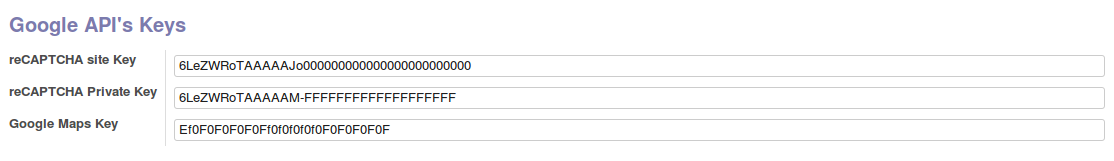
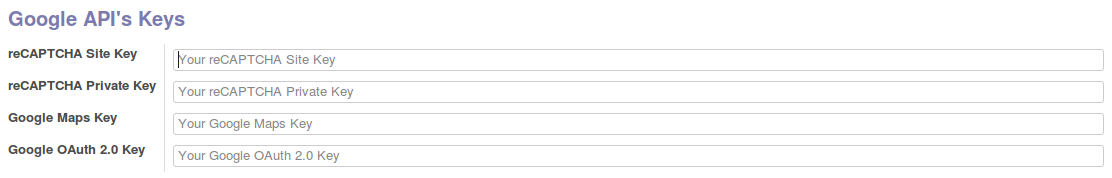
[8.0][IMP][website_google_apis] All updated to 8.0 Odoo API, added OAuth 2.0 Key

diff --git a/website_google_apis/static/description/index.html b/website_google_apis/static/description/index.html
@@ -1,6 +1,6 @@
 <section class="oe_container">
     <div class="oe_row">
-        <h2 class="oe_slogan">Odoo Website Google API's Keys</h2>
+        <h2 class="oe_slogan">Odoo Website Google API's</h2>
         <h4 class="oe_slogan"><a href="https://www.eiqui.com">By Soluci&oacute;ns Aloxa S.L.</a></h4>
             <p>
             	Module based in 'website_recaptcha_reloaded' by <a href='https://www.techreceptives.com'>Tech Receptives</a><br/><br/>
@@ -13,6 +13,7 @@
                 <li><i>website.recaptcha_private_key</i> (Recaptcha Private Key)</li>
                 <li><i>website.recaptcha_public_key</i> (Recaptcha Public Key)</li>
             	<li><i>website.google_maps_key</i> (Google Maps App Key)</li>
+            	<li><i>website.google_oauth2</i> (Google OAuth 2.0 Key)</li>
            	</ul>
 
             <div class="oe_row_img oe_centered oe_mt32">

diff --git a/website_google_apis/models/res_config.py b/website_google_apis/models/res_config.py
@@ -1,39 +1,39 @@
 # -*- coding: utf-8 -*-
 ##############################################################################
 #
-#    Tech-Receptives Solutions Pvt. Ltd.
-#    Copyright (C)2004-TODAY Tech Receptives(<https://www.techreceptives.com>)
+#    OpenERP, Open Source Management Solution
+#    Copyright (C) 2016 Solucións Aloxa S.L. <info@aloxa.eu>
 #
 #    This program is free software: you can redistribute it and/or modify
-#    it under the terms of the GNU Affero General Public License as
-#    published by the Free Software Foundation, either version 3 of the
-#    License, or (at your option) any later version.
+#    it under the terms of the GNU General Public License as published by
+#    the Free Software Foundation, either version 3 of the License, or
+#    (at your option) any later version.
 #
 #    This program is distributed in the hope that it will be useful,
 #    but WITHOUT ANY WARRANTY; without even the implied warranty of
 #    MERCHANTABILITY or FITNESS FOR A PARTICULAR PURPOSE.  See the
-#    GNU Affero General Public License for more details.
+#    GNU General Public License for more details.
 #
-#    You should have received a copy of the GNU Affero General Public License
+#    You should have received a copy of the GNU General Public License
 #    along with this program.  If not, see <http://www.gnu.org/licenses/>.
 #
 ##############################################################################
 
-from openerp.osv import fields, osv
+from openerp import models, fields
 
 
-class website_config_settings(osv.osv_memory):
+class website_config_settings(models.Model):
     _inherit = 'website.config.settings'
-
-    _columns = {
-        'recaptcha_site_key': fields.related(
-            'website_id', 'recaptcha_site_key', type="char",
-            string='reCAPTCHA site Key'),
-        'recaptcha_private_key': fields.related(
-            'website_id', 'recaptcha_private_key', type="char",
-            string='reCAPTCHA Private Key'),
-        'google_maps_key': fields.related(
-            'website_id', 'google_maps_key', type="char",
-            string='Google Maps Key')
-    }
-
+    
+    recaptcha_site_key = fields.Char(
+        related='website_id.recaptcha_site_key',
+        string='reCAPTCHA Site Key')
+    recaptcha_private_key = fields.Char(
+        related='website_id.recaptcha_private_key',
+        string='reCAPTCHA Private Key')
+    google_maps_key = fields.Char(
+        related='website_id.google_maps_key',
+        string='Google Maps Key')
+    google_oauth2 = fields.Char(
+        related='website_id.google_oauth2',
+        string='Google OAuth 2.0 Key')

diff --git a/website_google_apis/models/website.py b/website_google_apis/models/website.py
@@ -1,20 +1,20 @@
 # -*- coding: utf-8 -*-
 ##############################################################################
 #
-#    Tech-Receptives Solutions Pvt. Ltd.
-#    Copyright (C)2004-TODAY Tech Receptives(<https://www.techreceptives.com>)
+#    OpenERP, Open Source Management Solution
+#    Copyright (C) 2016 Solucións Aloxa S.L. <info@aloxa.eu>
 #
 #    This program is free software: you can redistribute it and/or modify
-#    it under the terms of the GNU Affero General Public License as
-#    published by the Free Software Foundation, either version 3 of the
-#    License, or (at your option) any later version.
+#    it under the terms of the GNU General Public License as published by
+#    the Free Software Foundation, either version 3 of the License, or
+#    (at your option) any later version.
 #
 #    This program is distributed in the hope that it will be useful,
 #    but WITHOUT ANY WARRANTY; without even the implied warranty of
 #    MERCHANTABILITY or FITNESS FOR A PARTICULAR PURPOSE.  See the
-#    GNU Affero General Public License for more details.
+#    GNU General Public License for more details.
 #
-#    You should have received a copy of the GNU Affero General Public License
+#    You should have received a copy of the GNU General Public License
 #    along with this program.  If not, see <http://www.gnu.org/licenses/>.
 #
 ##############################################################################
@@ -41,4 +41,5 @@ class website(models.Model):
     recaptcha_site_key = fields.Char('reCAPTCHA Site Key')
     recaptcha_private_key = fields.Char('reCAPTCHA Private Key')
     google_maps_key = fields.Char('Google Maps Key')
+    google_oauth2 = fields.Char('Google OAuth 2.0 Key')
     
